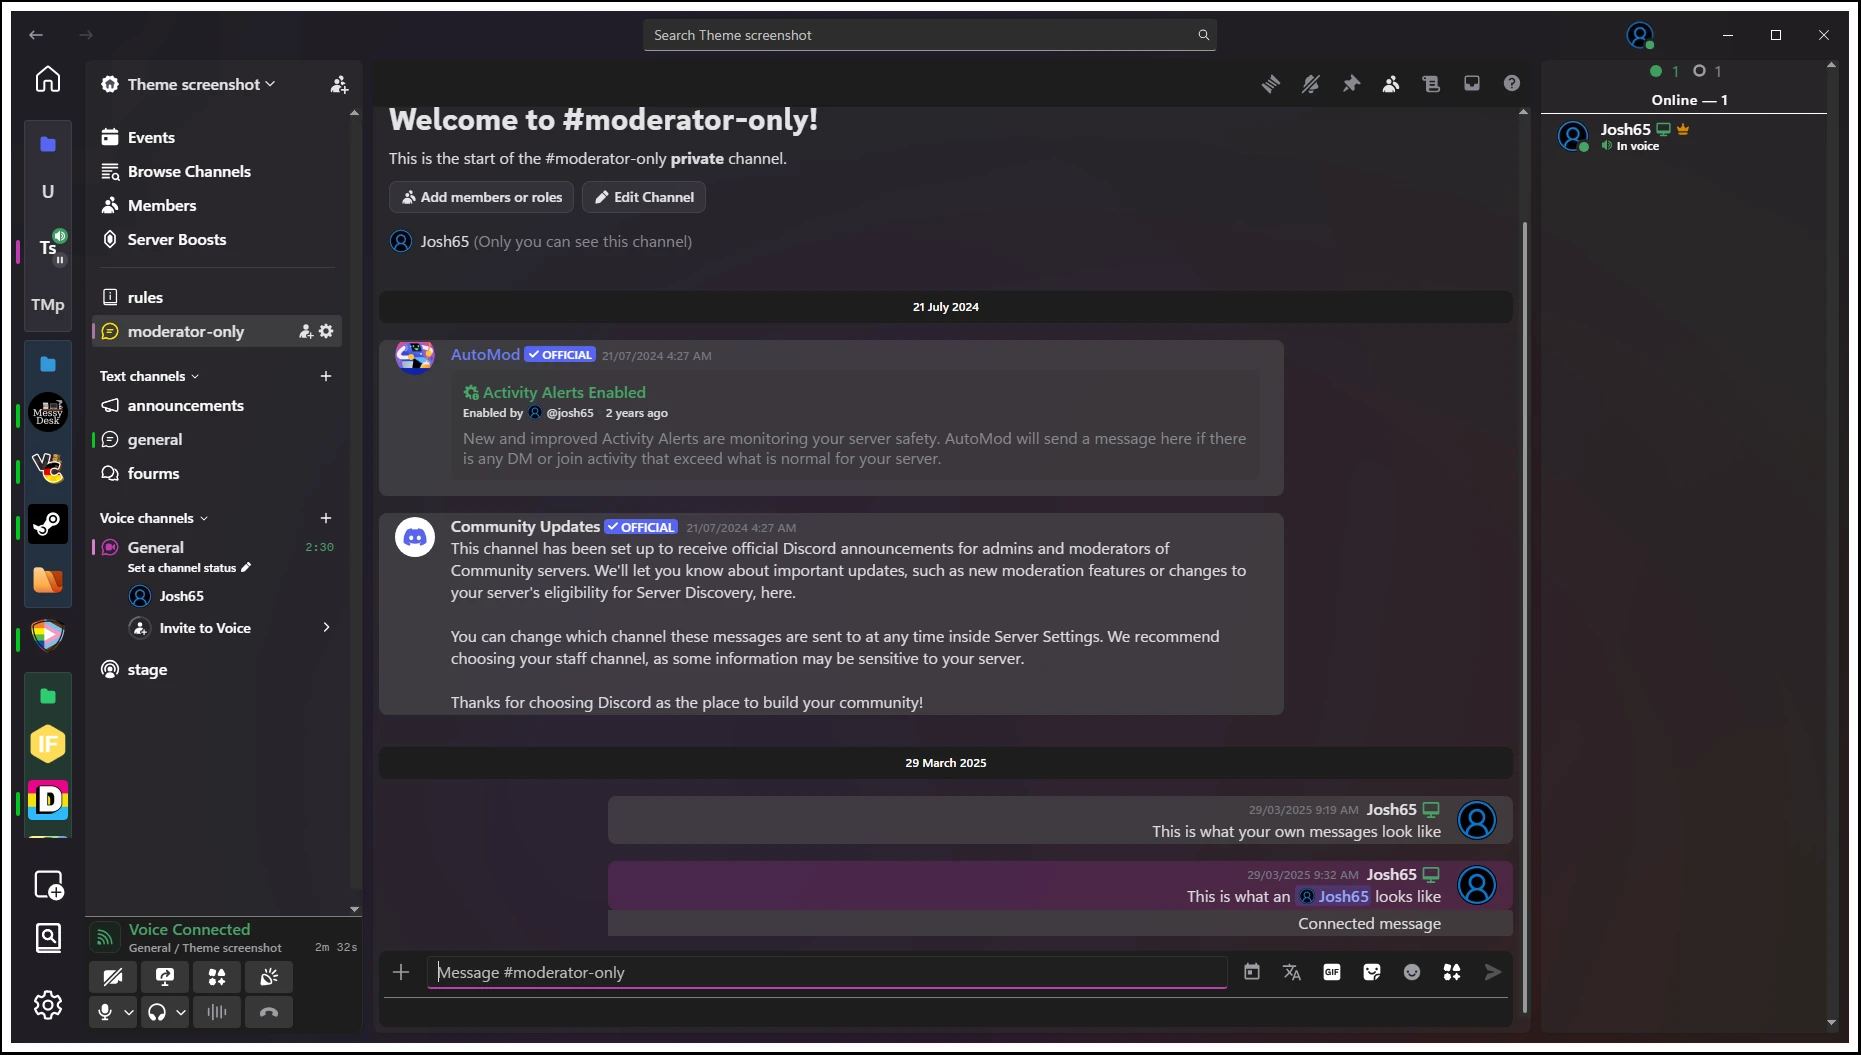
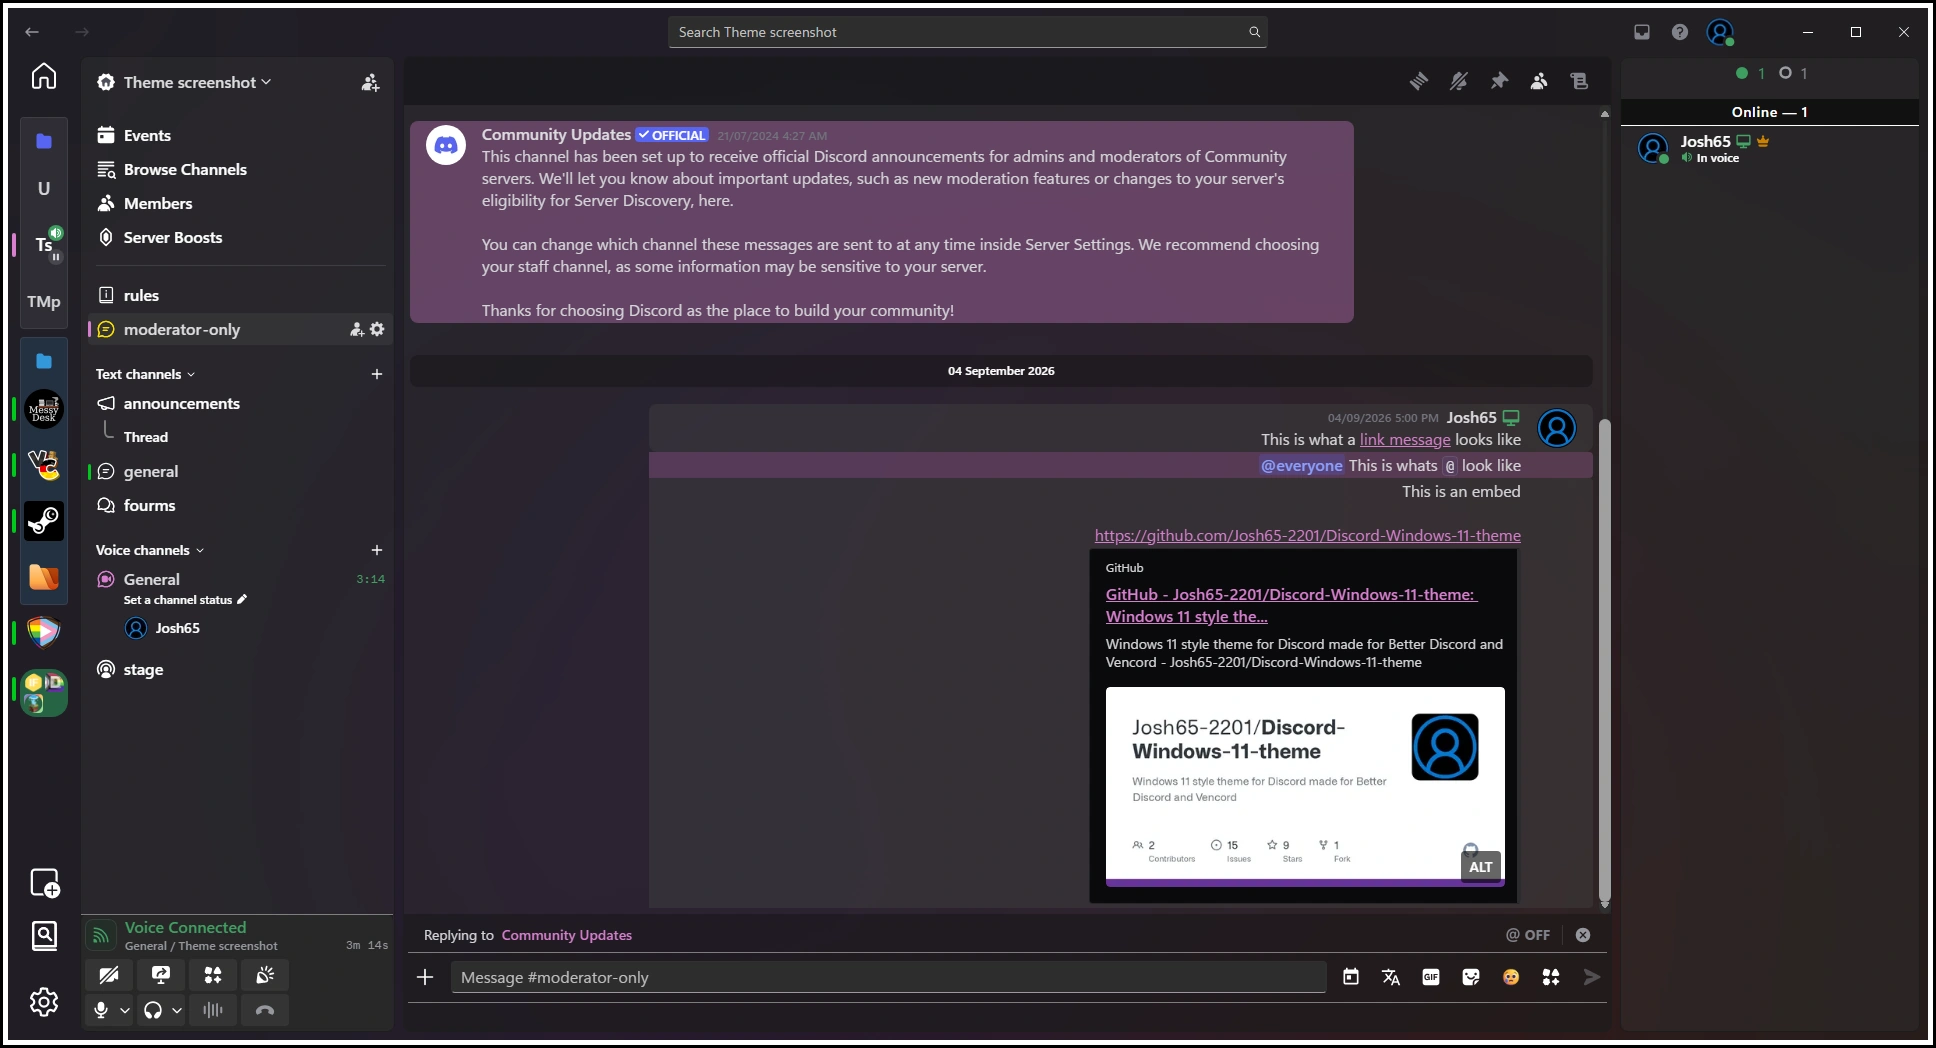
GitHub: Multiple changes - Updated preview image - Link to setting defaults in theme file

Changed region(s): [[0.1558, 0.0916, 0.8415, 0.9466], [0.0, 0.0, 1.0, 1.0]]

diff --git a/Discord_Windows_11.theme.css b/Discord_Windows_11.theme.css
@@ -32,11 +32,11 @@
   @import url("https://mwittrien.github.io/BetterDiscordAddons/Themes/EmojiReplace/src/Microsoft-3D/flags.css");
 
 
-  /* Theme settings */
+  /* Theme settings, defaults at https://github.com/Josh65-2201/Discord-Windows-11-theme#available-settings */
   :root{
-    --custom-member-list-width: 300px; /* 300px */
-    --unread: #00C81D;               /* #00C81D */
-    --transparency: 0;                 /* Only set to 1 when Vencord transparency is enabled */
+    --custom-member-list-width: 300px;
+    --unread: #00C81D;
+    --transparency: 0;
   }
 
 
